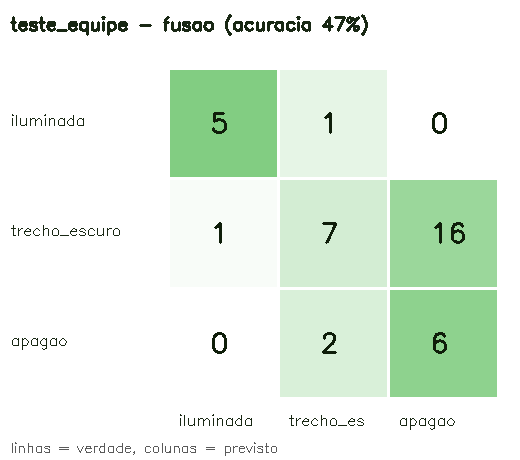
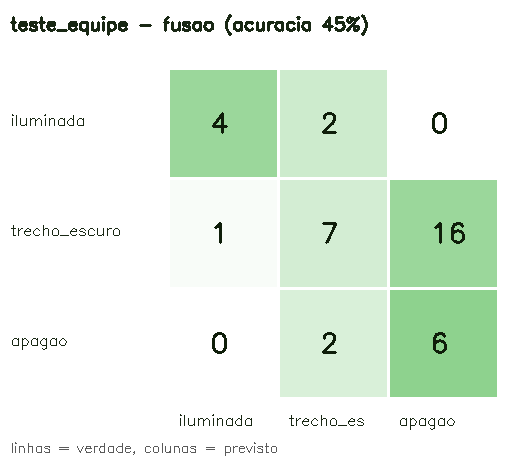
04-visao-computacional: veto da física nos dois sentidos e leitura da região no painel de RA ao vivo

Changed region(s): [[0.3077, 0.1522, 0.7692, 0.3957], [0.6462, 0.0304, 0.6769, 0.0913]]

diff --git a/04-visao-computacional/scripts/tempo_real.py b/04-visao-computacional/scripts/tempo_real.py
@@ -27,7 +27,8 @@ from visao.config import CLASSE_ACESO, CLASSE_APAGADO
 from visao.detector import YoloDetector
 from visao.imagem import luminosidade_media
 from visao.overlay import desenhar_deteccoes, desenhar_painel
-from visao.pipeline import analisar_imagem
+from visao.cena import analisar_cena
+from visao.pipeline import analisar_imagem, ler_classe
 from visao.privacidade import BorradorRostos
 from visao.regras import classificar_trecho
 
@@ -70,6 +71,7 @@ def main() -> int:
     reportados: set[int] = set()
     arq_eventos = open(args.eventos, "a", encoding="utf-8") if args.eventos else None
     ultimo_chamado, t_ant, fps, pausado = None, time.time(), 0.0, False
+    n_quadro, regiao = 0, None
 
     try:
         while True:
@@ -111,13 +113,20 @@ def main() -> int:
                 lum = luminosidade_media(frame)
                 status = classificar_trecho(acesos, apagados, lum)
 
+                if n_quadro % 15 == 0:   # leitura da região (escuridão + classificador de cena), sem pesar no FPS
+                    c = analisar_cena(frame)
+                    ler_classe(frame, c)
+                    regiao = (f"Regiao: {c.nivel.value.replace('_', ' ').upper()} ({c.indice_escuridao}/100)"
+                              + (" | POSSIVEL APAGAO" if c.possivel_apagao else f" | {(c.classe or '').replace('_', ' ')}"))
+                n_quadro += 1
+
                 agora = time.time()
                 fps = 0.9 * fps + 0.1 * (1 / max(agora - t_ant, 1e-6))
                 t_ant = agora
 
                 saida, _ = borrador.borrar(frame)  # o vídeo gravado também respeita a LGPD
                 desenhar_deteccoes(saida, deteccoes)
-                desenhar_painel(saida, status, acesos, apagados, lum, fps, unicos, ultimo_chamado)
+                desenhar_painel(saida, status, acesos, apagados, lum, fps, unicos, ultimo_chamado, regiao)
 
                 if args.salvar:
                     if escritor is None:

diff --git a/04-visao-computacional/visao/classificador_cena.py b/04-visao-computacional/visao/classificador_cena.py
@@ -8,7 +8,8 @@ Classes: iluminada · trecho_escuro (falha de iluminação, há luz elétrica po
 
 Fusão (limiar em configs/regras.yaml, seção classificador_cena), escolhida pela avaliação por cenário
 (scripts/avaliar_cena.py, results/cena/):
-  - veto da física: cena medida como ILUMINADA nunca vira apagão, diga o classificador o que disser;
+  - veto da física nos dois sentidos: cena medida como ILUMINADA nunca vira apagão, e cena medida como
+    MUITO ESCURA/BREU nunca vira "iluminada", diga o classificador o que disser;
   - classificador confiante (>= confianca_minima): vale o classificador;
   - classificador indeciso: valem as medidas de luz.
 Sem o arquivo do modelo (models/cena.pt), tudo funciona só com as regras.
@@ -57,6 +58,12 @@ def fundir_cena(c: Cena, probs: dict | None) -> LeituraCena:
         top = ordem[1]
         return LeituraCena(top, probs[top], "regras+classificador", probs,
                            f"o classificador sugeriu apagão, mas a cena tem luz medida: {top.replace('_', ' ')}")
+    # e o contrário: cena medida como muito escura ou breu não é "iluminada" (há falha de luz, ao menos local)
+    if top == "iluminada" and c.nivel.value in ("muito_escura", "breu"):
+        top = next(k for k in ordem if k != "iluminada")
+        return LeituraCena(top, probs[top], "regras+classificador", probs,
+                           f"o classificador viu luz, mas a cena medida está {c.nivel.value.replace('_', ' ')}: "
+                           f"{top.replace('_', ' ')}")
     if probs[top] >= cfg.get("confianca_minima", 0.5):
         concorda = top == r
         return LeituraCena(top, probs[top], "regras+classificador" if concorda else "classificador", probs,

diff --git a/04-visao-computacional/visao/overlay.py b/04-visao-computacional/visao/overlay.py
@@ -41,19 +41,22 @@ def desenhar_deteccoes(img: np.ndarray, deteccoes: list[Deteccao]) -> np.ndarray
 
 def desenhar_painel(img: np.ndarray, status: StatusTrecho, acesos: int, apagados: int,
                     luminosidade: float, fps: float | None = None,
-                    total_unicos: tuple[int, int] | None = None, chamado: str | None = None) -> np.ndarray:
+                    total_unicos: tuple[int, int] | None = None, chamado: str | None = None,
+                    regiao: str | None = None) -> np.ndarray:
     """Painel no canto superior esquerdo. total_unicos = (acesos, apagados) contados no trajeto."""
     linhas = [f"Trecho: {status.value.upper()}",
               f"No quadro: {acesos} aceso(s) | {apagados} apagado(s)",
               f"Luminosidade: {luminosidade:.0f}/255"]
     if total_unicos is not None:
         linhas.append(f"No trajeto: {total_unicos[0]} aceso(s) | {total_unicos[1]} apagado(s)")
+    if regiao:
+        linhas.append(regiao)
     if chamado:
         linhas.append(chamado)
     if fps is not None:
         linhas.append(f"{fps:.0f} FPS")
 
-    largura, altura = 360, 24 * len(linhas) + 14
+    largura, altura = 430, 24 * len(linhas) + 14
     sub = img[0:altura, 0:largura]
     img[0:altura, 0:largura] = cv2.addWeighted(sub, 0.35, np.zeros_like(sub), 0.65, 0)
     cv2.rectangle(img, (0, 0), (6, altura), COR_STATUS[status], -1)
